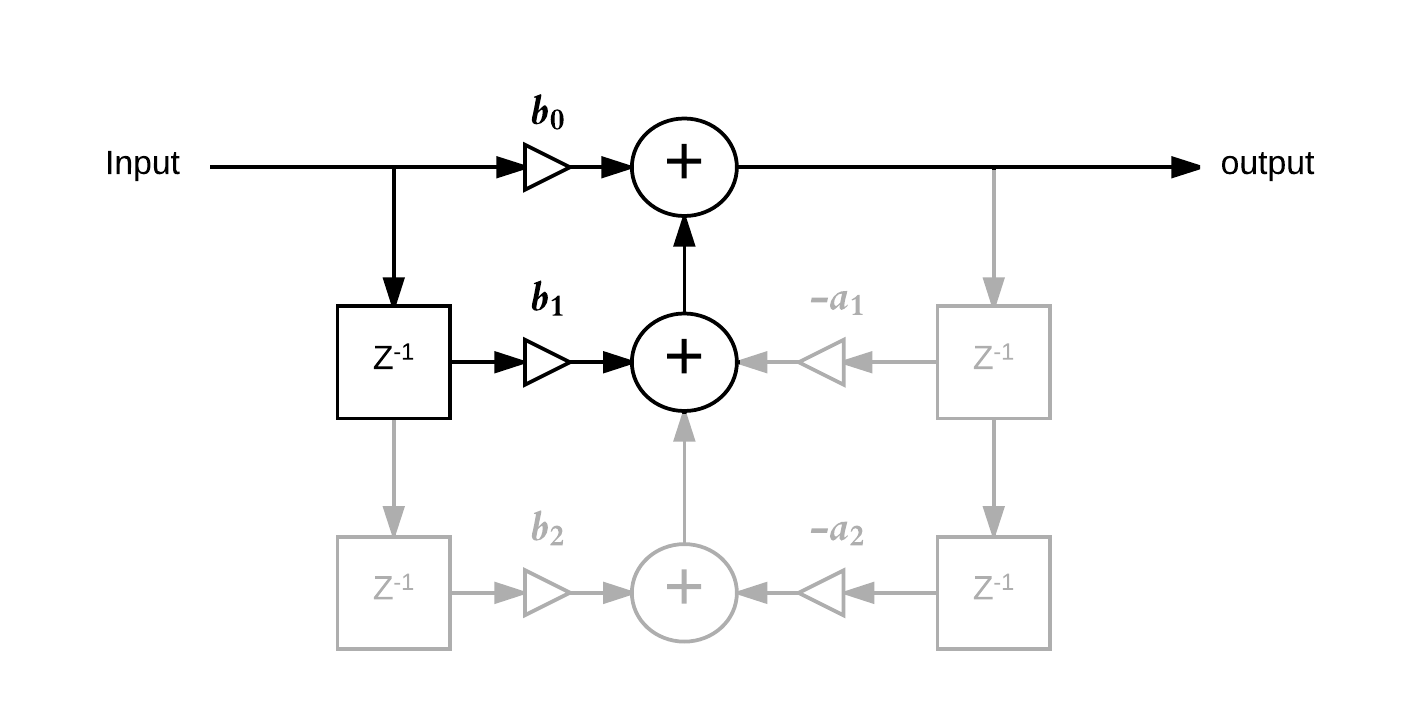
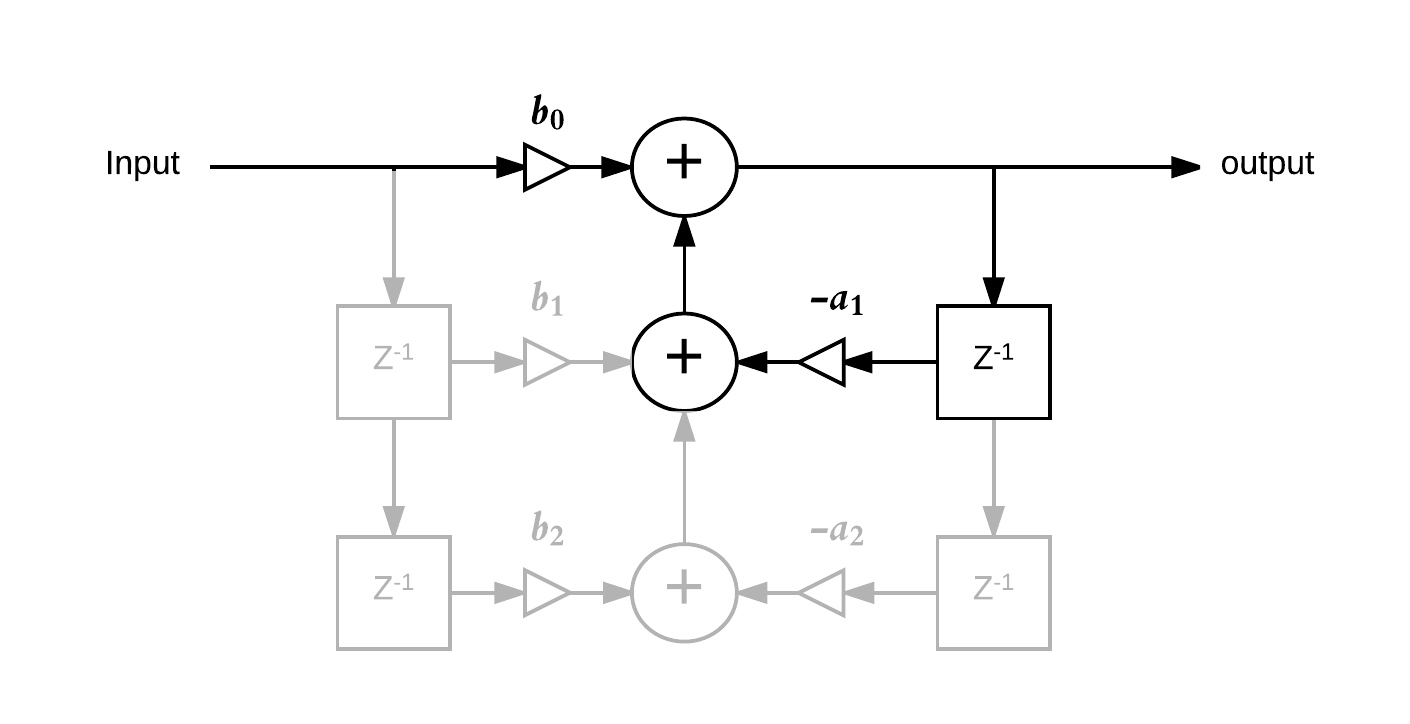
Chapter 3: Fixed First order Bi-quad simplificaiton error

diff --git a/chapter3.tex b/chapter3.tex
@@ -231,8 +231,8 @@ therefore the explicit calculation of the Bi-quad coefficients in this case beco
 
 \begin{equation}\label{eq:first_order_coeffieicnts}
 \begin{split}
-b_1&=e^\left(\frac{-\omega_n}{F_s}\right)\\
-b_0&=1-b_1\\
+a_1&=e^\left(\frac{-\omega_n}{F_s}\right)\\
+b_0&=1-a_1\\
 \end{split}
 \end{equation}
 
@@ -241,8 +241,15 @@ where $\omega_n$ is the -3dB corner frequency in radians per second and $F_s$ is
 Therefore the discrete recursive form of the first order model becomes:
 
 \begin{equation}
-y_{i+1}=b_1y_{i-1}+b_0y_i
+y_{i+1}=a_1y_{i-1}+b_0y_i
 \end{equation}
+
+Another form commonly seen in software form which is designed to optimize for speed takes the form:
+
+\begin{lstlisting}
+float b_0=exp(-f_c/f_s);
+float out+=(in-out)*b_0;
+\end{lstlisting}
 
 \subsection{Euler vs Trapezoid Rule}
 
